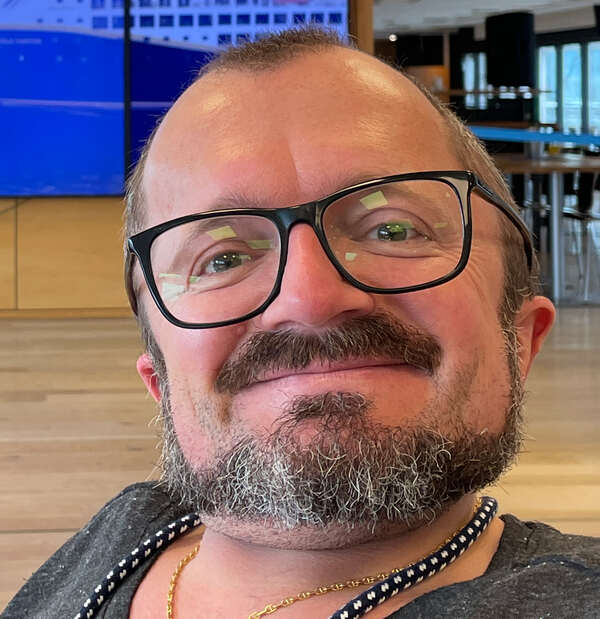
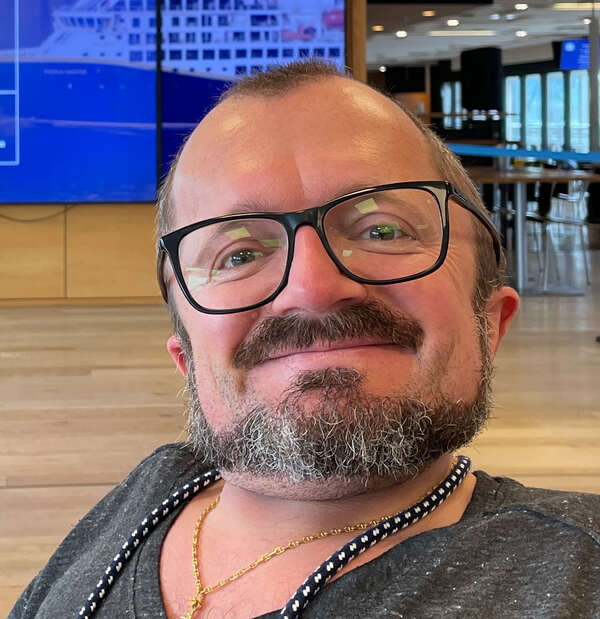
feat: board members

diff --git a/src/content/board/de/weilenmann-nadja.md b/src/content/board/de/weilenmann-nadja.md
@@ -1,0 +1,13 @@
+---
+lang: de
+name: Nadja Weilenmann
+role: Vizepräsidentin
+order: 2
+image: ~/assets/images/board/weilenmann-nadja.jpg
+---
+
+Ich bin in Zürich aufgewachsen und habe nach einem längeren Aufgenthalt mit meiner Familie in Deutschland in St. Gallen mein Masterstudium und meine ersten drei Arbeitsjahre absolviert. Ich hatte auch das Glück, in anderen Ländern Europas zu studieren und zu arbeiten und bin mit einem Franzosen verheiratet. Seit Ende 2013 darf ich Oslo mein neues Zuhause nennen.
+
+Seit Ende 2013 darf ich Oslo mein neues Zuhause nennen und Meine zwei Kinder, die hier geboren sind, sprechen natürlich Norwegisch. Als Vorstandsmitglied im Schweizer Klub verbinde ich mich mit anderen Schweizern, damit meine Kinder auch Schweizer Feste kennenlernen dürfen und mit meiner Verwandten in der Deutschschweiz kommunizieren können.
+
+Ich verfolge auch die Politik in der Schweiz mit Interesse und nehme mein Stimmrecht wahr - die fünfte Schweiz (Auslandsschweizer) kann und soll einen Beitrag in der Debatte leisten.

diff --git a/src/content/board/de/vermeulen-celine.md b/src/content/board/de/vermeulen-celine.md
@@ -1,0 +1,11 @@
+---
+lang: de
+name: Céline Vermeulen
+role: Beisitzerin
+image: ~/assets/images/board/vermeulen-celine.jpg
+---
+Ich bin in Lausanne geboren und an der Waadtländer Riviera aufgewachsen. Dann führte mich mein Lebensweg ins Wallis, nach Zürich, Genf und wieder zurück in den Kanton Waadt, wobei ich beruflich weiterhin einen Fuss in der Deutschschweiz behielt.
+
+Norwegen lag mir schon immer am Herzen. Als Kind eines Schweizer Vaters und einer norwegischen Mutter habe ich trotz meiner lateinischen Gesichtszüge immer gespürt, dass meine Seele für den Norden schlägt. Im Jahr 2022 erfolgte schliesslich der Umzug, sehr zu meiner Freude und der meiner Kinder. Da ich die doppelte Staatsbürgerschaft besitze, habe ich auch das Vergnügen, mein Wahlrecht in der Schweiz und in Norwegen auszuüben. 
+
+Meine Verbindung zur Schweiz ist nach wie vor sehr eng, und meine derzeitige Arbeit führt mich mehrmals im Jahr dorthin. So kann ich einige Spezialitäten mitbringen, die meinem Gaumen besonders gut schmecken.

diff --git a/src/content/board/no/weilenmann-nadja.md b/src/content/board/no/weilenmann-nadja.md
@@ -1,0 +1,13 @@
+---
+lang: no
+name: Nadja Weilenmann
+role: Nestleder
+order: 2
+image: ~/assets/images/board/weilenmann-nadja.jpg
+---
+
+Jeg vokste opp i Zürich og tilbrakte en lengre periode med familien min i Tyskland. Deretter fullførte jeg masterstudiene mine i St. Gallen og tilbrakte mine tre første yrkesaktive år der. Jeg har også vært så heldig å få studere og arbeide i andre europeiske land, og jeg er gift med en franskmann. Siden slutten av 2013 har jeg kunnet kalle Oslo mitt nye hjem.
+
+Mine to barn, som er født her, snakker naturligvis norsk. Som styremedlem i Sveitserklubben holder jeg kontakten med andre sveitsere, slik at barna mine også får oppleve sveitsiske tradisjoner og høytider og kan kommunisere med slektningene mine i den tyskspråklige delen av Sveits.
+
+Jeg følger også politikken i Sveits med stor interesse og benytter stemmeretten min. Den femte Sveits – sveitserne i utlandet – kan og bør bidra til den offentlige debatten.

diff --git a/src/content/board/no/vermeulen-celine.md b/src/content/board/no/vermeulen-celine.md
@@ -1,0 +1,11 @@
+---
+lang: no
+name: Céline Vermeulen
+role: Vara
+image: ~/assets/images/board/vermeulen-celine.jpg
+---
+Jeg er født i Lausanne og vokste opp ved den vaudske rivieraen. Senere førte livsveien min meg til Valais, Zürich, Genève og tilbake til kantonen Vaud, samtidig som jeg i jobbsammenheng fortsatt hadde en fot i den tyskspråklige delen av Sveits.
+
+Norge har alltid stått mitt hjerte nær. Som barn av en sveitsisk far og en norsk mor har jeg, til tross for mine latinske ansiktstrekk, alltid følt at sjelen min hører hjemme i nord. I 2022 gikk flyttelasset endelig til Norge, til stor glede for både meg og barna mine. Siden jeg har dobbelt statsborgerskap, har jeg også gleden av å kunne utøve stemmeretten min både i Sveits og i Norge.
+
+Tilknytningen min til Sveits er fortsatt svært sterk, og jobben min fører meg dit flere ganger i året. På den måten kan jeg ta med meg noen spesialiteter som jeg setter særlig stor pris på.

diff --git a/src/content/board/de/bar-silvio.md b/src/content/board/de/bar-silvio.md
@@ -1,0 +1,9 @@
+---
+lang: de
+name: Silvio Bär
+role: Beisitzer
+image: ~/assets/images/board/bar-silvio.jpg
+---
+Ich bin in der Schweiz geboren und aufgewachsen und habe an der Universität Zürich Klassische Philologie, Musikwissenschaft und Anglistik studiert. 2006/7 habe ich während meiner Promotion ein Jahr in Oxford gelebt und geforscht. 
+
+Nach mehrjähriger Tätigkeit als Gymnasiallehrer und Dozent in Zürich habe ich 2013 einen Ruf als Professor an die Universität Oslo angenommen und bin darum 2014 nach Norwegen ausgewandert.

diff --git a/src/content/board/no/bar-silvio.md b/src/content/board/no/bar-silvio.md
@@ -1,0 +1,9 @@
+---
+lang: no
+name: Silvio Bär
+role: Vara
+image: ~/assets/images/board/bar-silvio.jpg
+---
+Jeg er født og oppvokst i Sveits og studerte klassisk filologi, musikkvitenskap og engelsk ved Universitetet i Zürich. I 2006–2007 bodde og forsket jeg i Oxford i ett år i forbindelse med doktorgradsarbeidet mitt.
+
+Etter flere år som gymnaslærer og universitetslektor i Zürich takket jeg i 2013 ja til et professorat ved Universitetet i Oslo, og derfor flyttet jeg til Norge i 2014.
